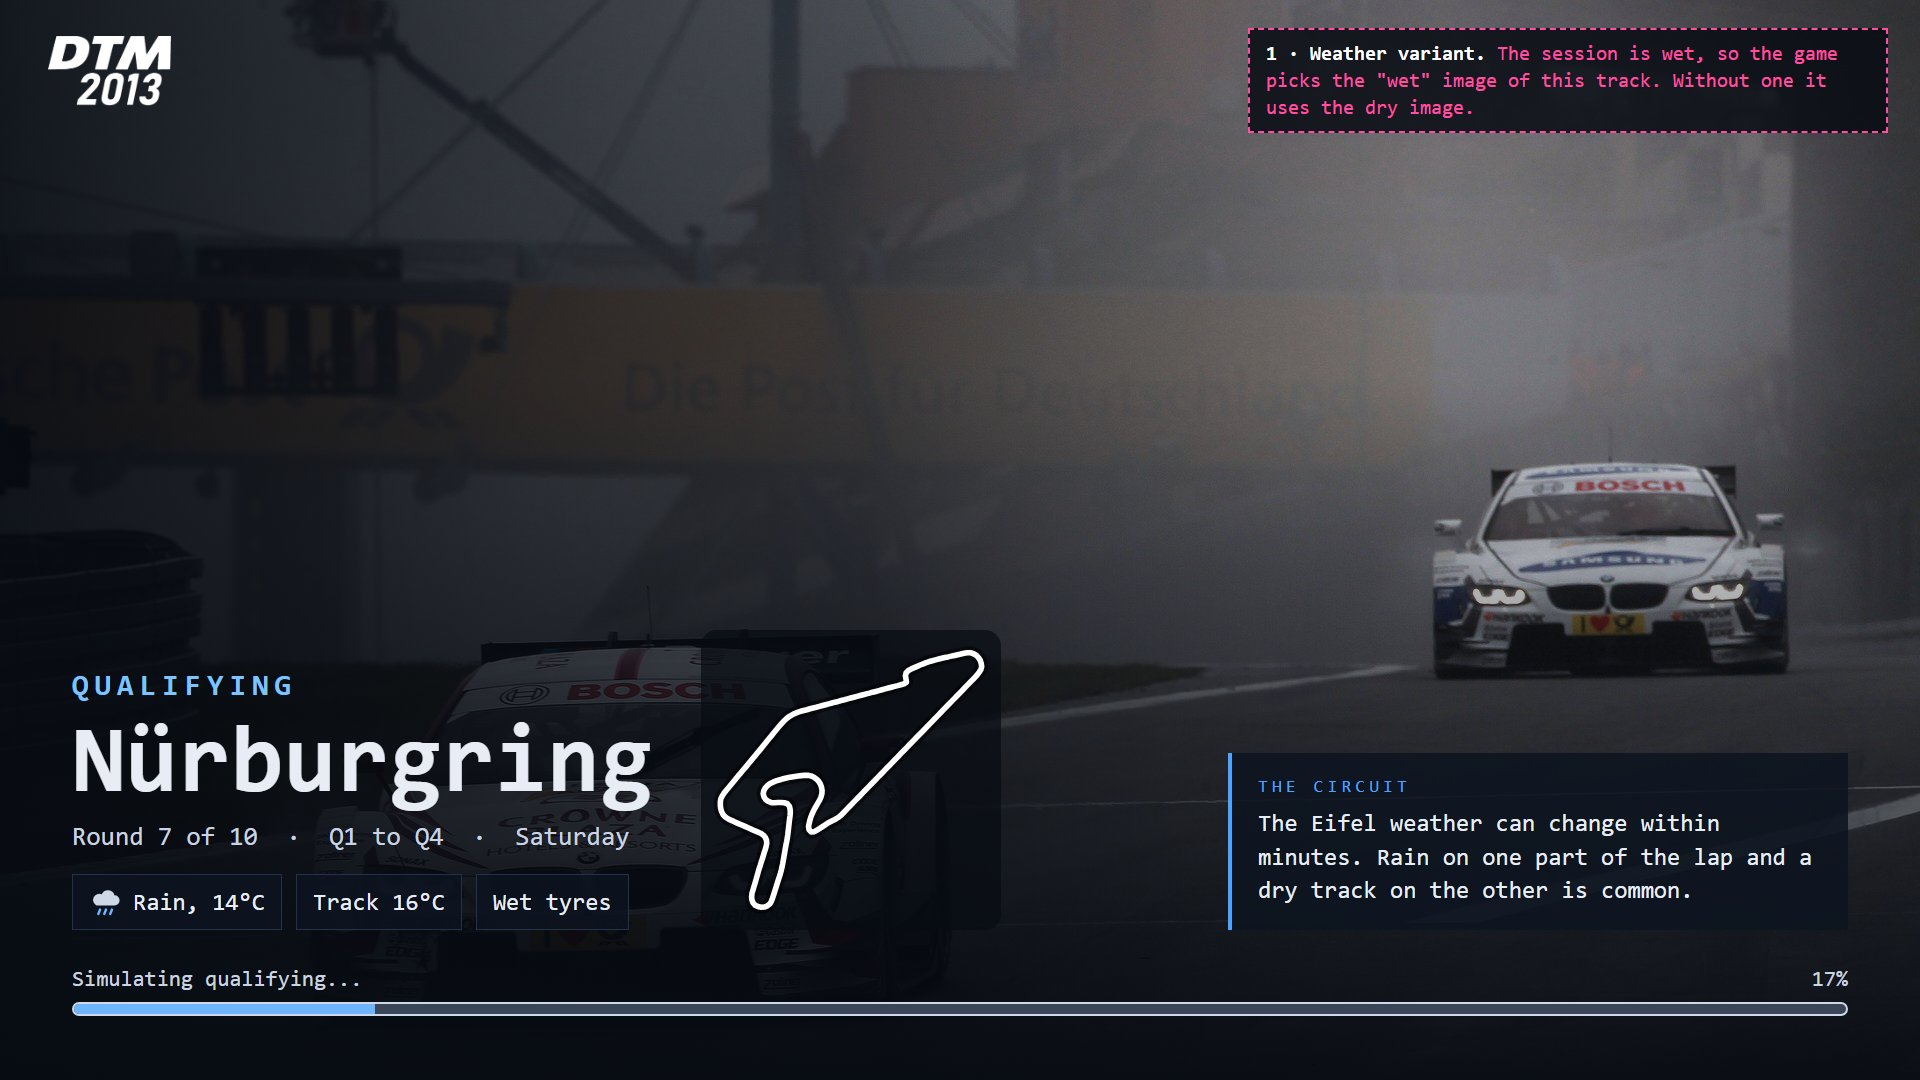
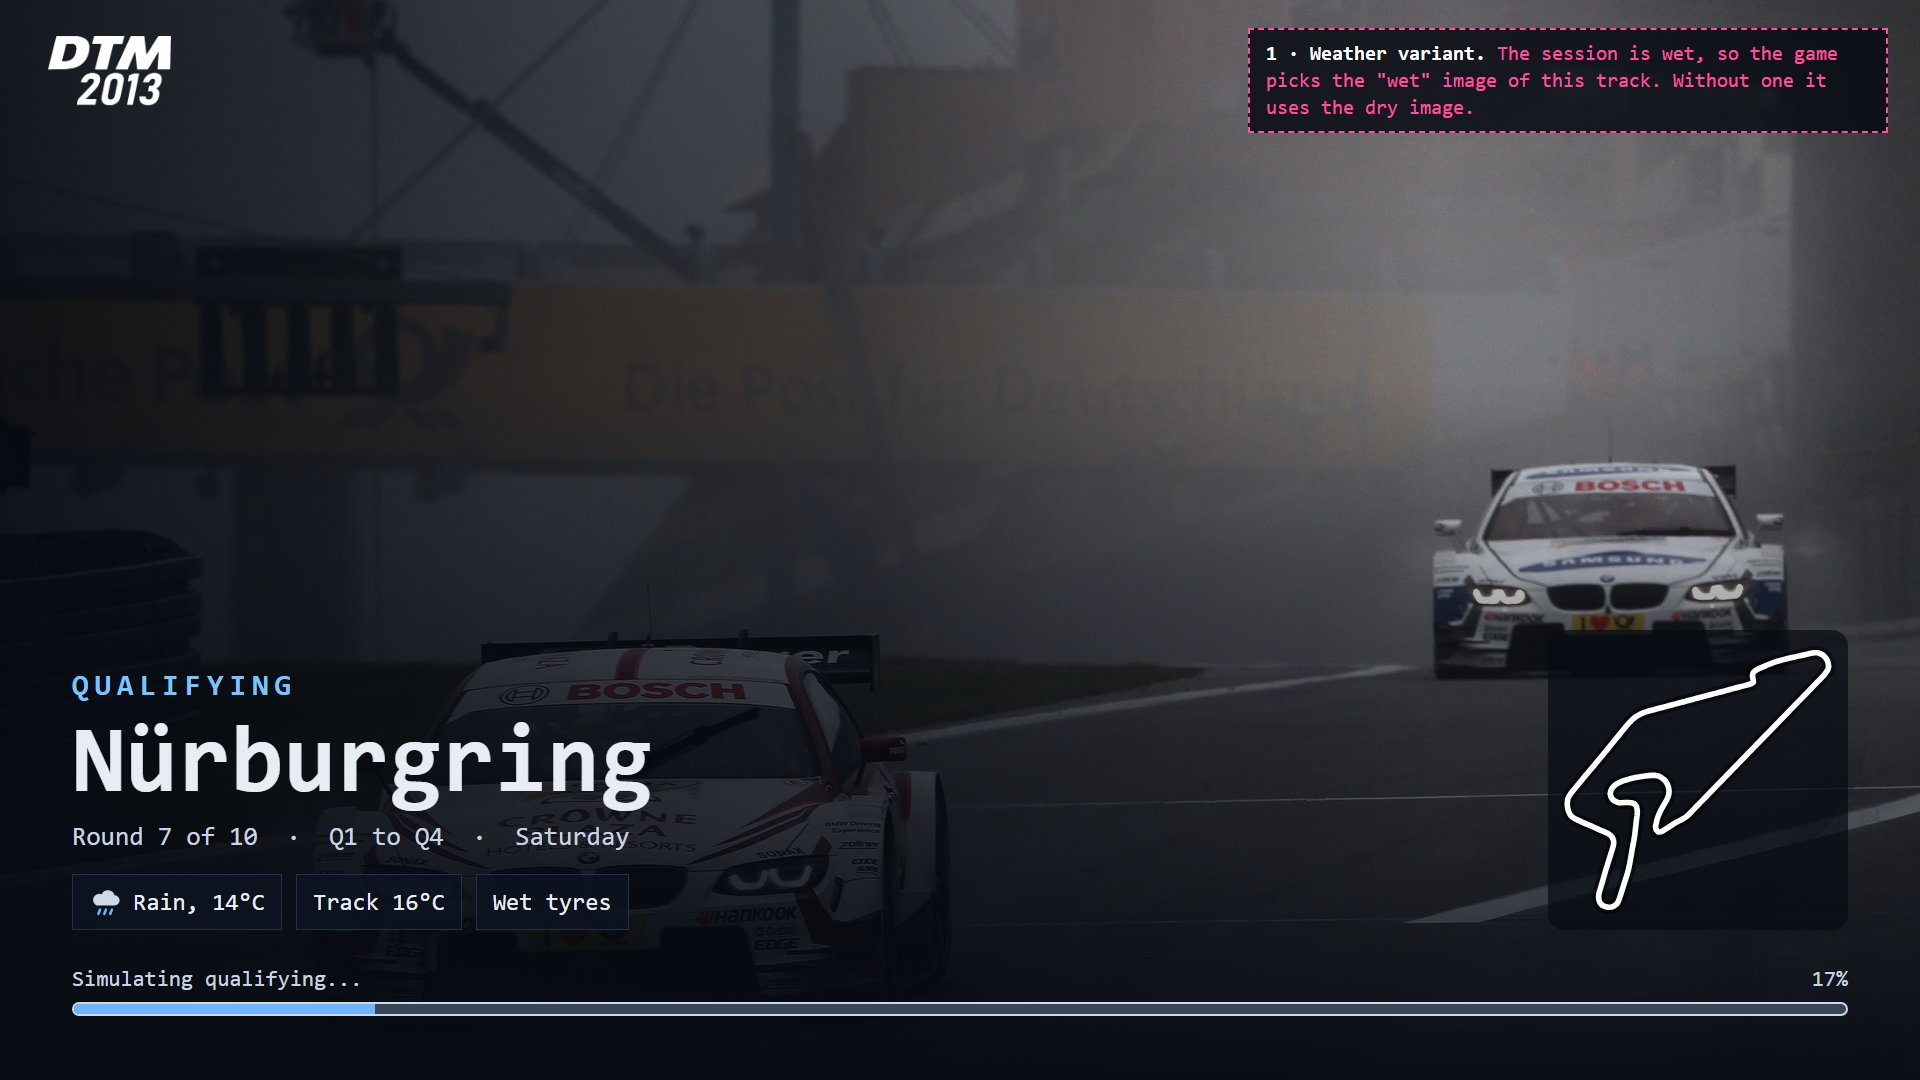
Weekend images 01 and 02: drop the venue fact box, track outline bottom right

Changed region(s): [[0.625, 0.5806, 0.9688, 0.8556], [0.3438, 0.5806, 0.5312, 0.8556]]

diff --git a/docs/requests/weekend-images.md b/docs/requests/weekend-images.md
@@ -47,7 +47,7 @@ explain each screen and are not part of the design.
 
 | File | Proposal | Shows |
 |---|---|---|
-| `01-loading-practice.jpg` | 1 Loading cards | Practice loading over a track photo, title block, weather, outline, venue fact |
+| `01-loading-practice.jpg` | 1 Loading cards | Practice loading over a track photo, title block and weather, track outline bottom right |
 | `02-loading-qualifying-wet.jpg` | 1 Loading cards | Same card with the wet picture and rain chip |
 | `03-race-choice.jpg` | 1 Loading cards | Simulate / Watch over the dimmed start photo, forecast strip |
 | `04-week-loading.jpg` | 1 Loading cards | Week advance before a race week, with the pack's track art and a three-day forecast |
